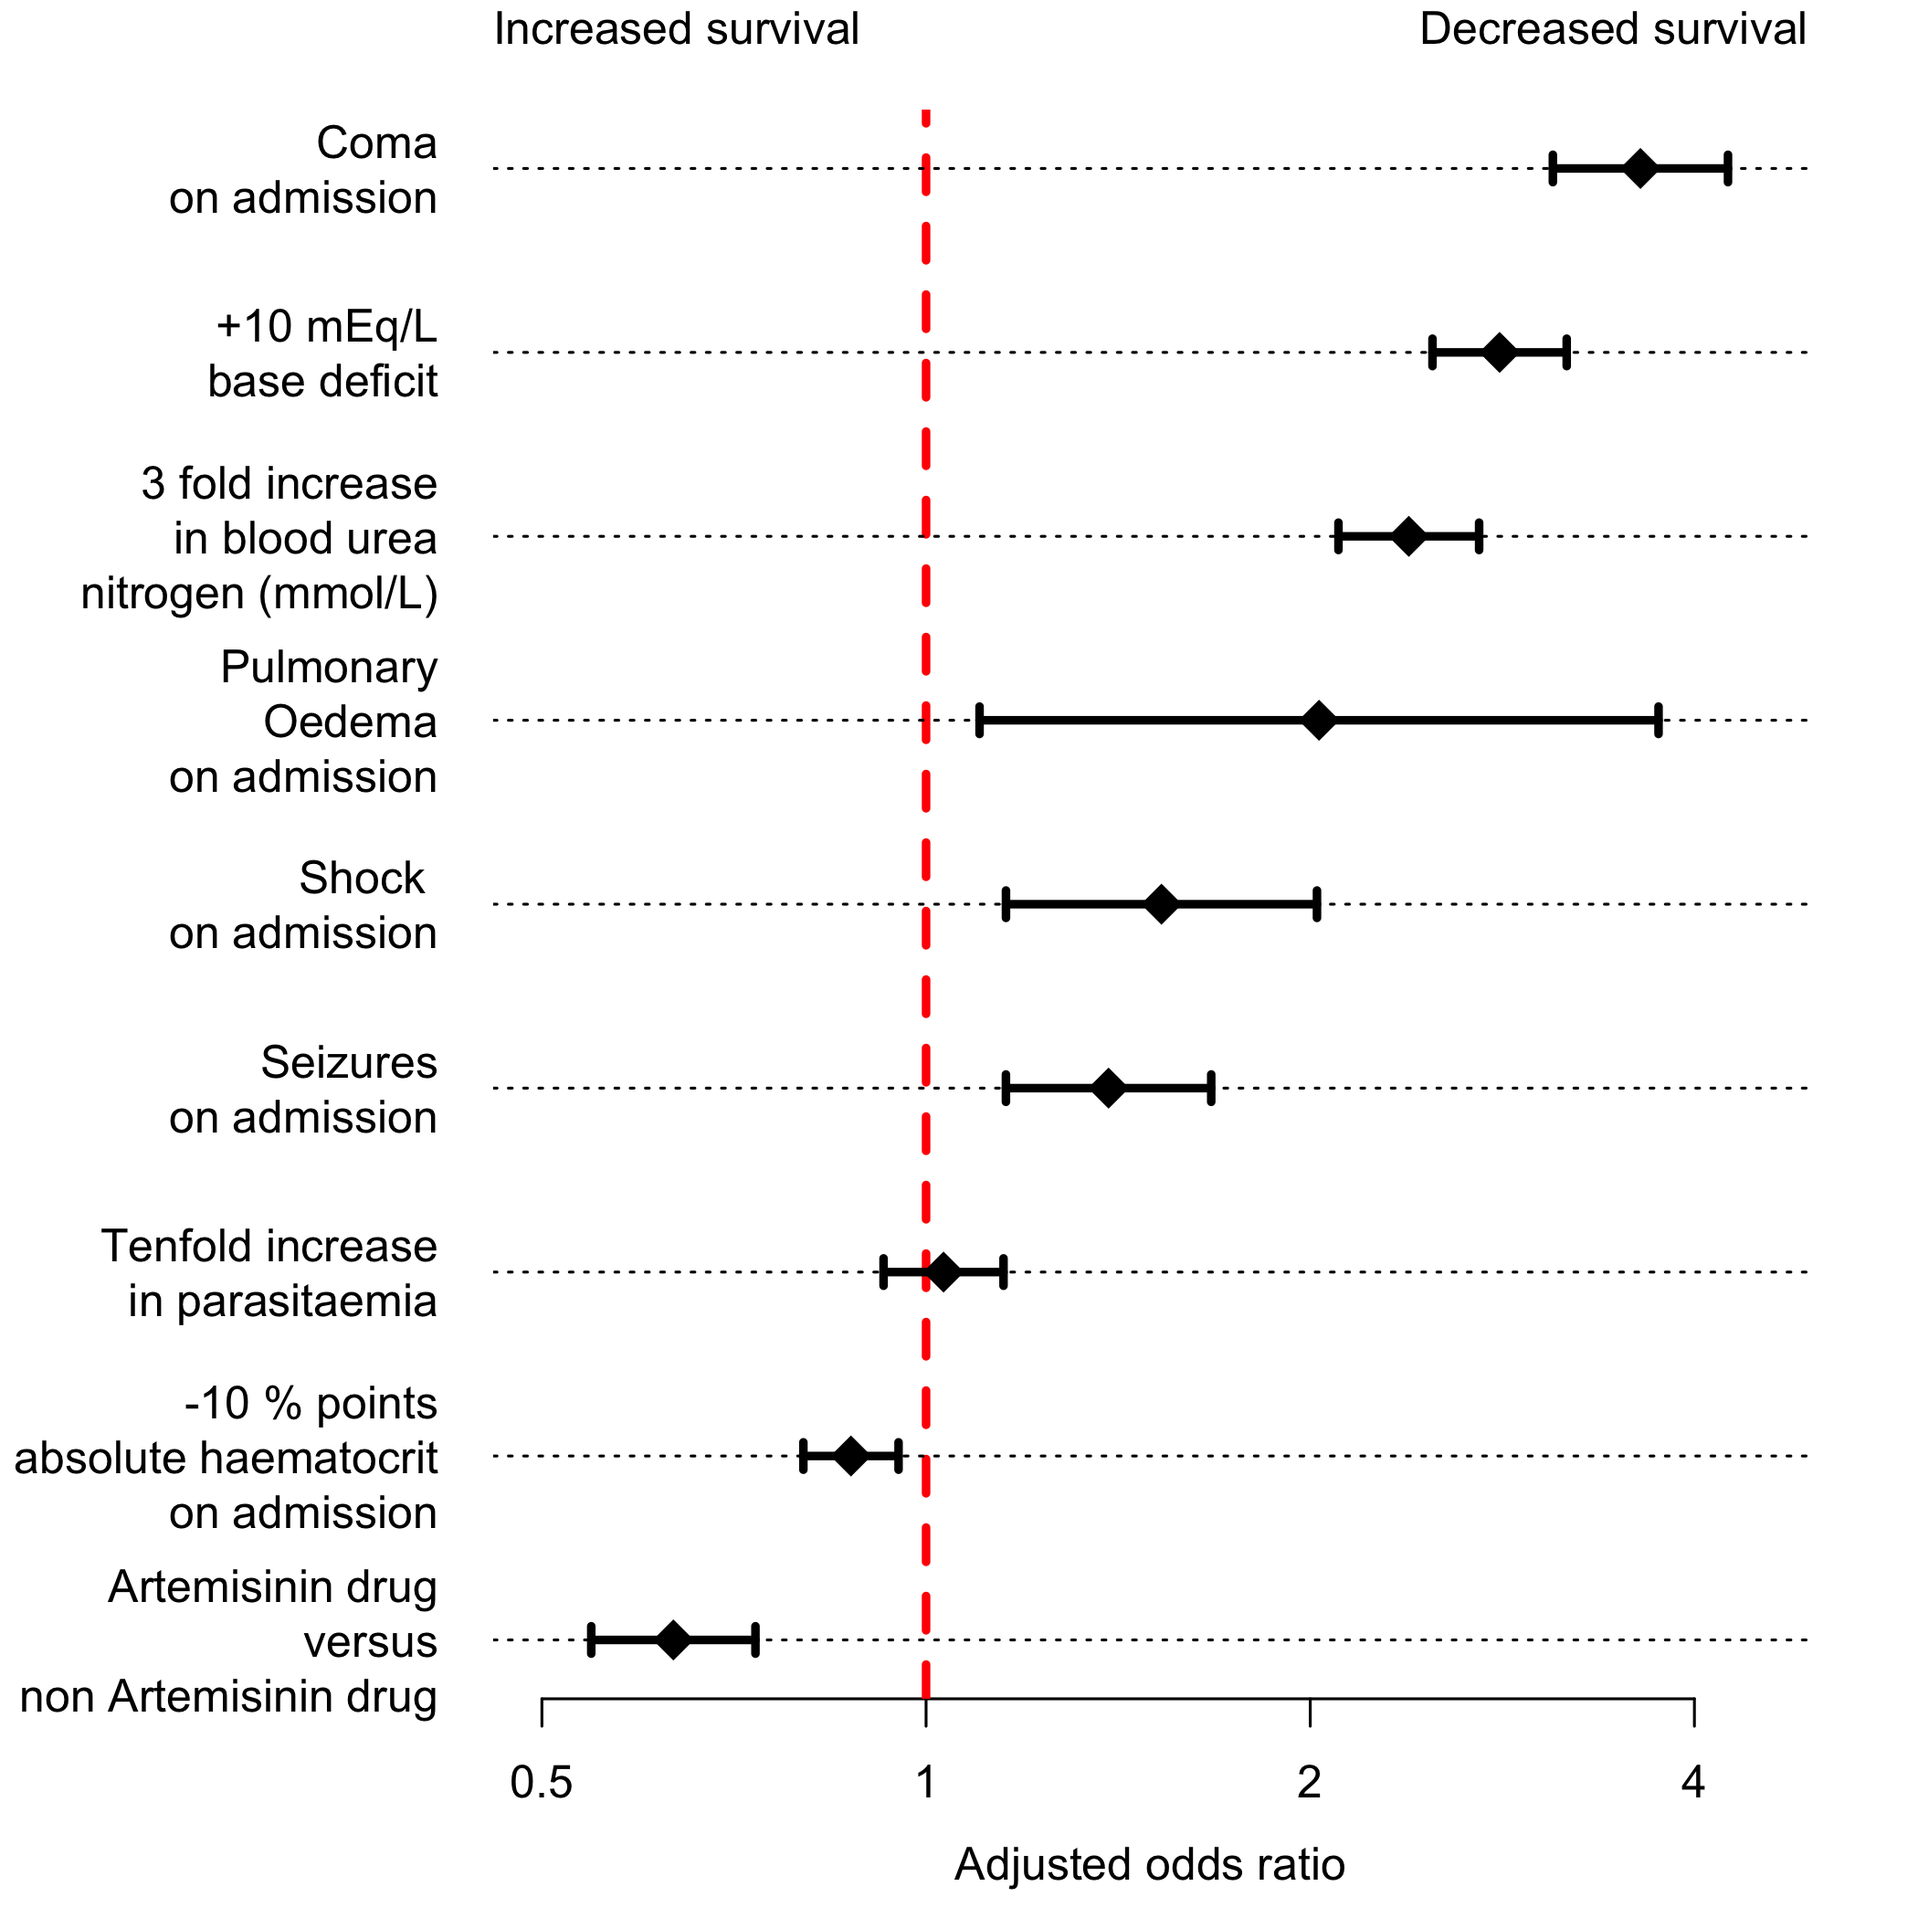
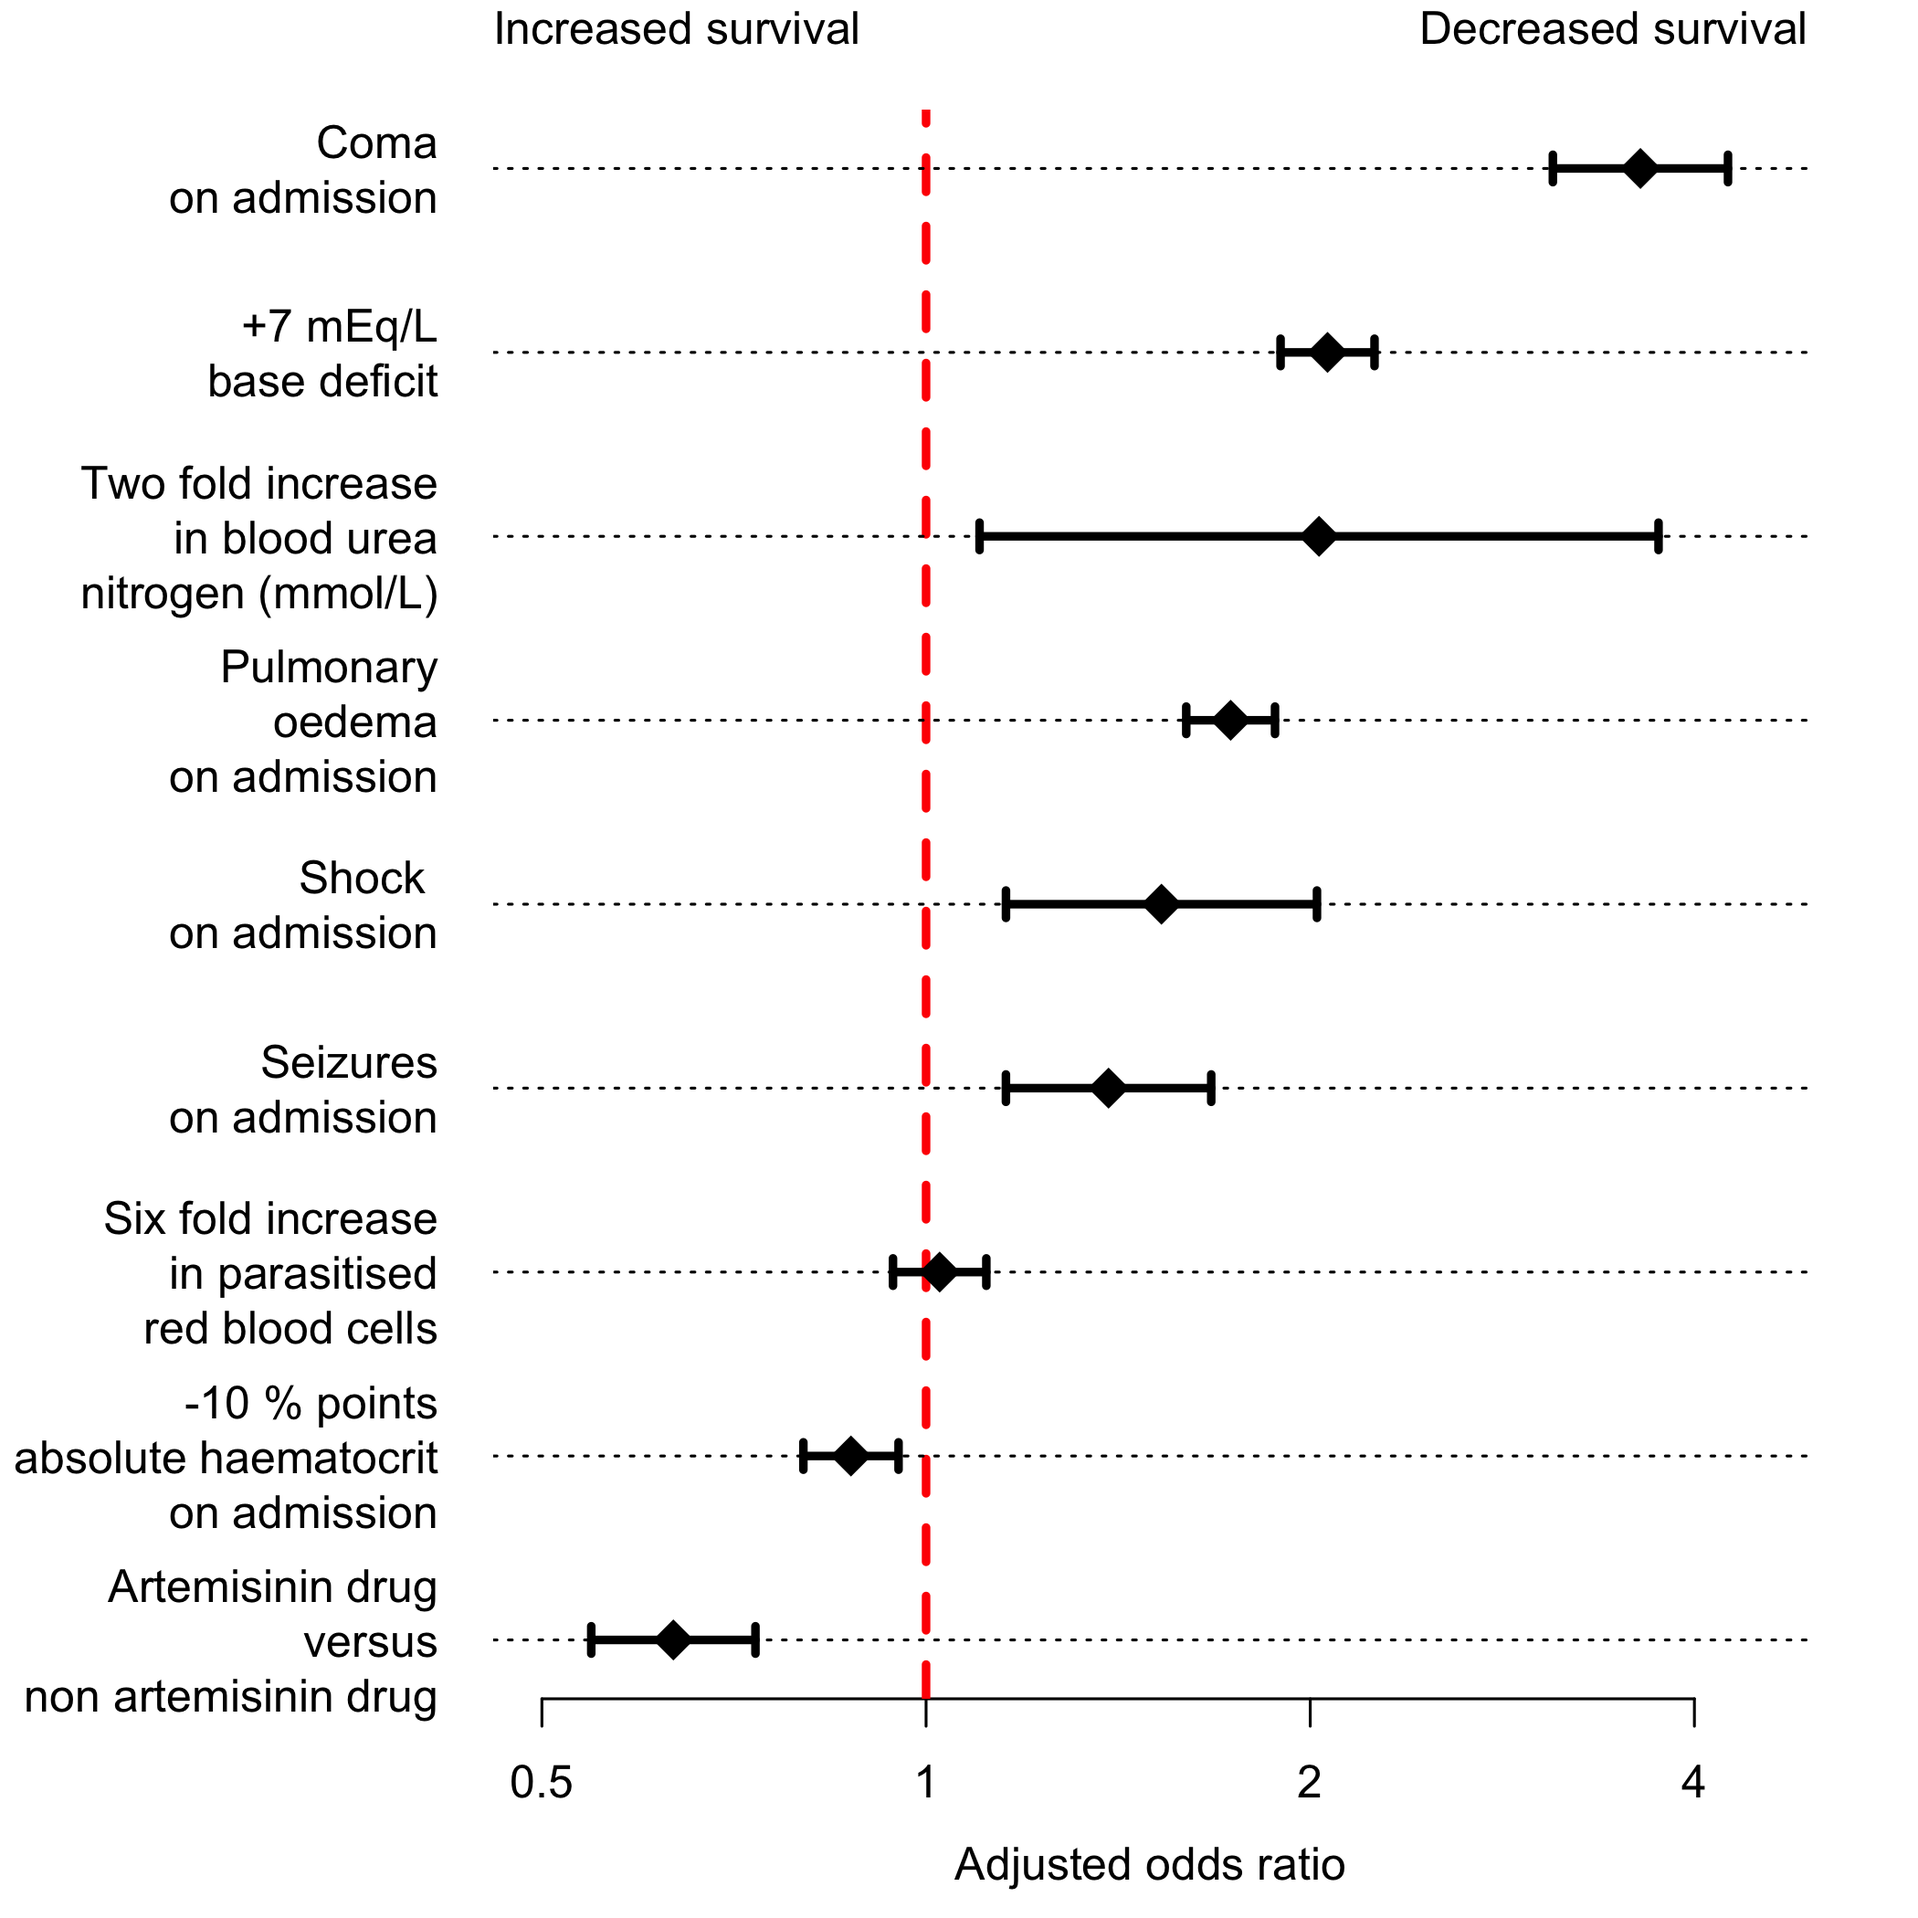
1 SD for scaling of forest plot

diff --git a/FactorsCausingDeath.md b/FactorsCausingDeath.md
@@ -242,8 +242,46 @@ print(RandEffs)
 Aggregate results for plotting:
 
 ```r
+writeLines(sprintf('Standard deviation of base deficit in patient population is %s',
+                  round(sd(m$BD,na.rm=T))))
+```
+
+```
+## Standard deviation of base deficit in patient population is 7
+```
+
+```r
+writeLines(sprintf('Standard deviation of blood urea nitrogen in patient population is %s',
+                  round(2^sd(log2(m$BUN),na.rm=T))))
+```
+
+```
+## Standard deviation of blood urea nitrogen in patient population is 2
+```
+
+```r
+writeLines(sprintf('Standard deviation of parasitised RBCs in patient population is %s',
+                  round(10^sd(m$LPAR_pct,na.rm=T))))
+```
+
+```
+## Standard deviation of parasitised RBCs in patient population is 6
+```
+
+```r
+writeLines(sprintf('Standard deviation of haematocrits in patient population is %s',
+                  round(sd(m$HCT,na.rm=T))))
+```
+
+```
+## Standard deviation of haematocrits in patient population is 10
+```
+
+
+
+```r
 # The scalar multiples to put the AORs on the correct scales
-Scalar_f = c(1, 10, 1, 1, 1, 10, 1, log2(3), 1, 1, 1)
+Scalar_f = c(1, 7, 1, 1, 1, 10, 1, 1, log10(6), 1, 1)
 # Compute 95% CIs
 Results = data.frame(lowerCI = exp(Scalar_f*(FixedEffs$estimate -
                                                1.96*FixedEffs$std.error)),
@@ -262,16 +300,33 @@ Results['HCT',] = 1/Results['HCT',]
 Results = Results[plotting_ind,]
 x_ind = sort.int(Results$mean, index.return = T)$ix
 Results = Results[x_ind,]
+print(round(Results,2))
+```
+
+```
+##              lowerCI mean upperCI
+## drug_AS         0.55 0.63    0.74
+## HCT             0.95 0.87    0.80
+## LPAR_pct        0.94 1.02    1.11
+## convulsions1    1.15 1.39    1.67
+## shock1          1.16 1.53    2.02
+## log2(BUN)       1.60 1.73    1.88
+## poedema1        1.10 2.03    3.75
+## BD              1.90 2.06    2.25
+## coma            3.10 3.63    4.25
+```
+
+```r
 par(bty='n', las=1, mar = c(4,9,2,2))
 
-Y_Labels = c('Artemisinin drug\nversus\nnon Artemisinin drug',
+Y_Labels = c('Artemisinin drug\nversus\nnon artemisinin drug',
              '-10 % points\nabsolute haematocrit\non admission',
-             'Tenfold increase\n in parasitaemia',
+             'Six fold increase\n in parasitised\nred blood cells',
              'Seizures\non admission',
              'Shock \non admission',
-             'Pulmonary\nOedema\non admission',
-             '3 fold increase\nin blood urea\nnitrogen (mmol/L)',
-             '+10 mEq/L\nbase deficit',
+             'Pulmonary\noedema\non admission',
+             'Two fold increase\nin blood urea\nnitrogen (mmol/L)',
+             '+7 mEq/L\nbase deficit',
              'Coma\non admission')
 
 xlims = c(0.5, 4.5)
